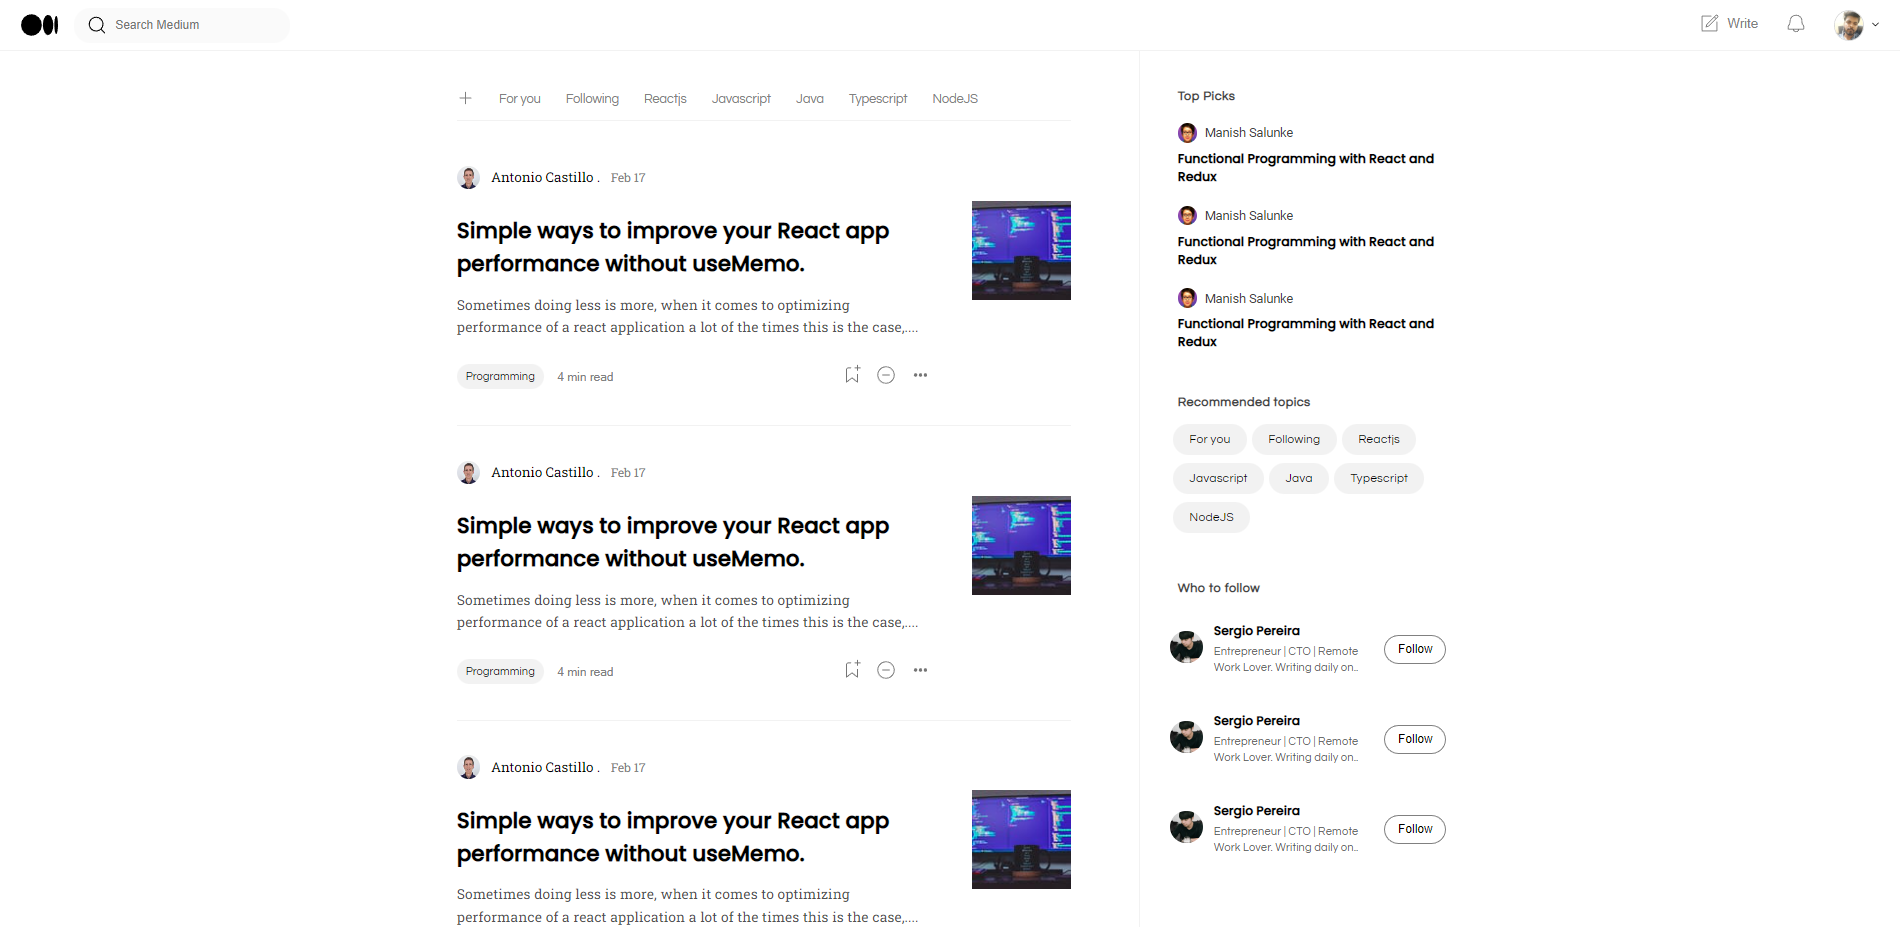
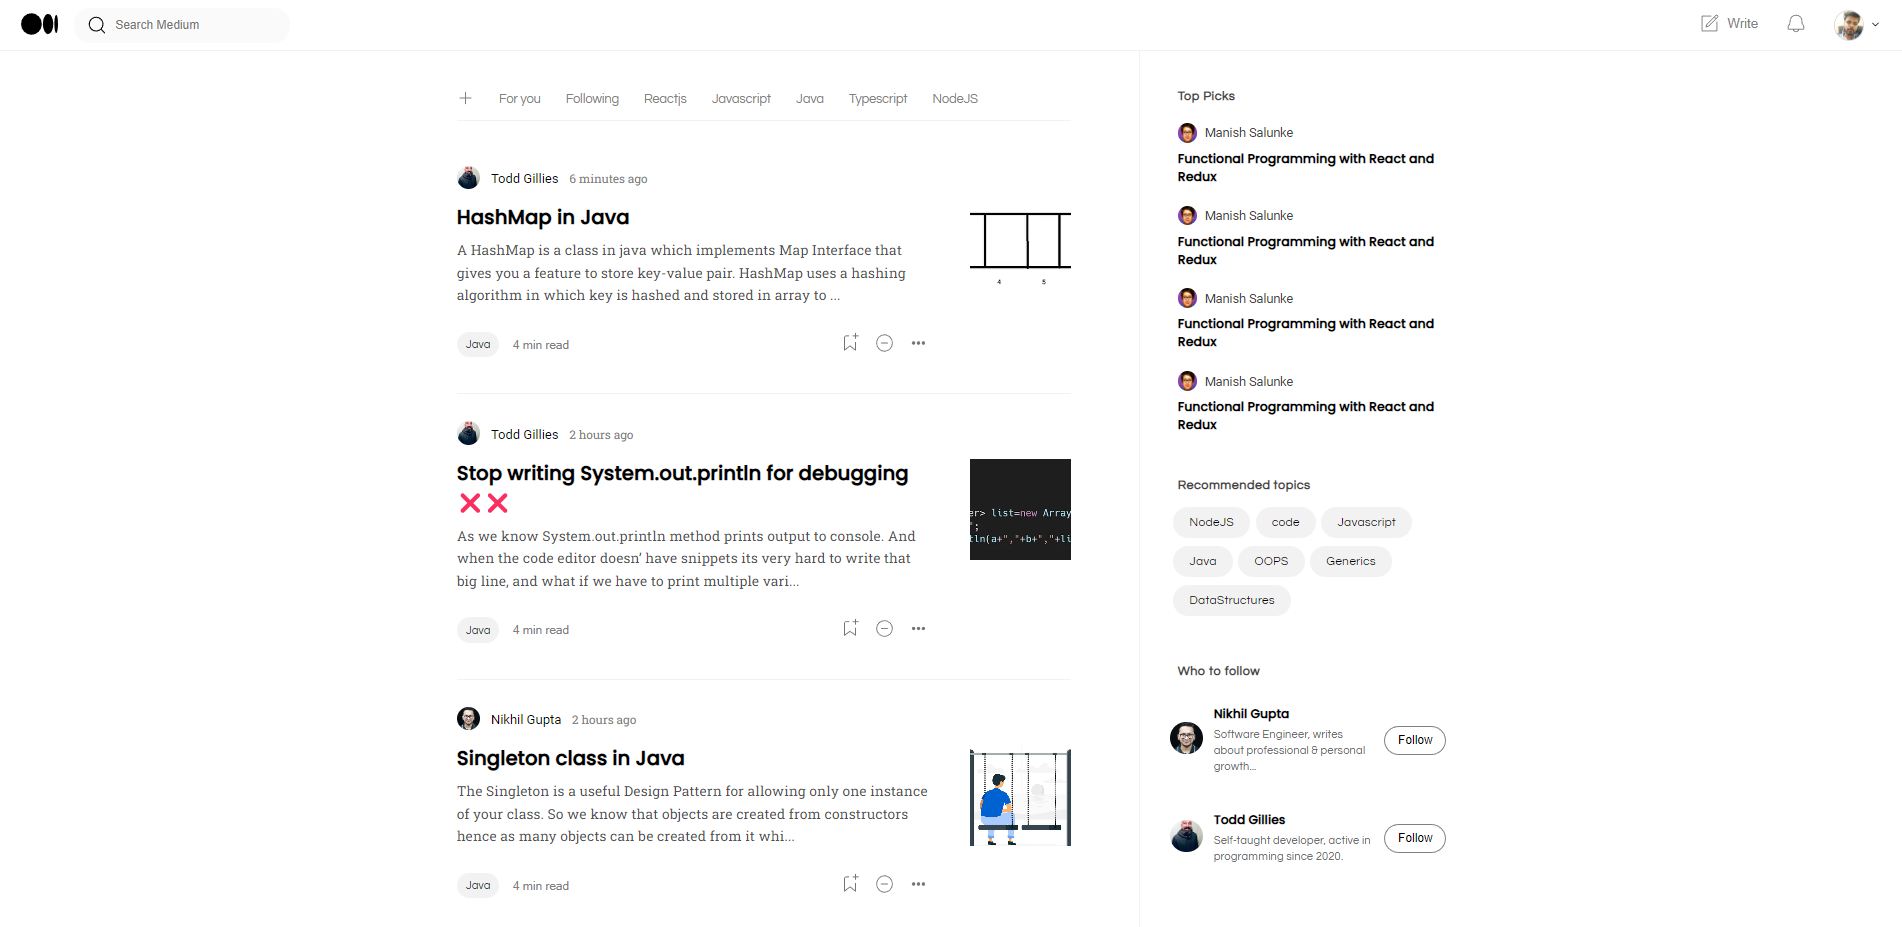
minor ui enhanced

diff --git a/server/src/controllers/post.controller.ts b/server/src/controllers/post.controller.ts
@@ -6,7 +6,7 @@ import User from "../models/user";
 import ServerError from "../utils/ServerError";
 
 export const getUserPost = asyncHandler(async (req, res, next) => {
-  res.send(await Post.find({ userId: req.params.userId }));
+  res.send(await Post.find({ userId: req.params.userId }).sort({ _id: -1 }));
 });
 
 // todo
@@ -96,7 +96,7 @@ export const getPostOfTopic = asyncHandler(async (req, res, next) => {
 });
 
 async function getPostsWithUser(q: any) {
-  const posts = await q;
+  const posts = await q.sort({ _id: -1 });
   return Promise.all(
     posts.map(async (post: any) => {
       const user = await User.findOne({ _id: post.userId });

diff --git a/client/src/components/Post.tsx b/client/src/components/Post.tsx
@@ -85,7 +85,7 @@ export default function Post({
         }}
       >
         <div className="left_post">
-          <h2 style={{ margin: "8px 0", marginTop: "2px" }}>
+          <h3 style={{ margin: "8px 0", marginTop: "-2px", fontSize: "22px" }}>
             <Link
               to={`/blog/${postId}`}
               style={{
@@ -96,7 +96,7 @@ export default function Post({
             >
               {title}
             </Link>
-          </h2>
+          </h3>
           <Link
             to={`/blog/${postId}`}
             style={{

diff --git a/client/src/pages/Home.tsx b/client/src/pages/Home.tsx
@@ -54,6 +54,9 @@ export default function Home() {
           style={{
             width: "90%",
             marginRight: "auto",
+            display: "flex",
+            flexDirection: "column",
+            gap: "30px",
           }}
         >
           {posts.map((item) => {

diff --git a/client/src/pages/User.tsx b/client/src/pages/User.tsx
@@ -44,6 +44,9 @@ export default function User() {
           style={{
             width: "90%",
             marginRight: "auto",
+            display: "flex",
+            flexDirection: "column",
+            gap: "30px",
           }}
         >
           <div
